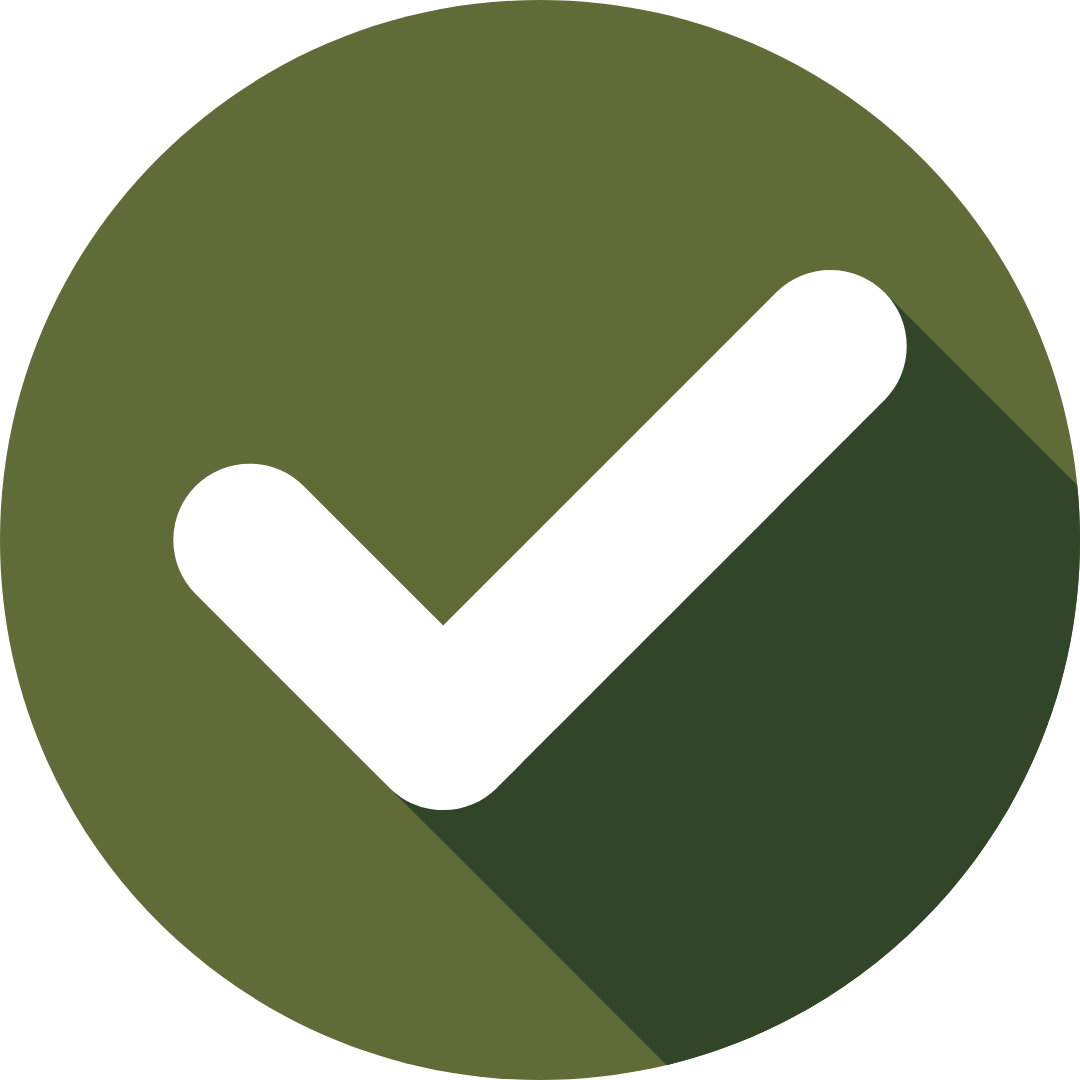
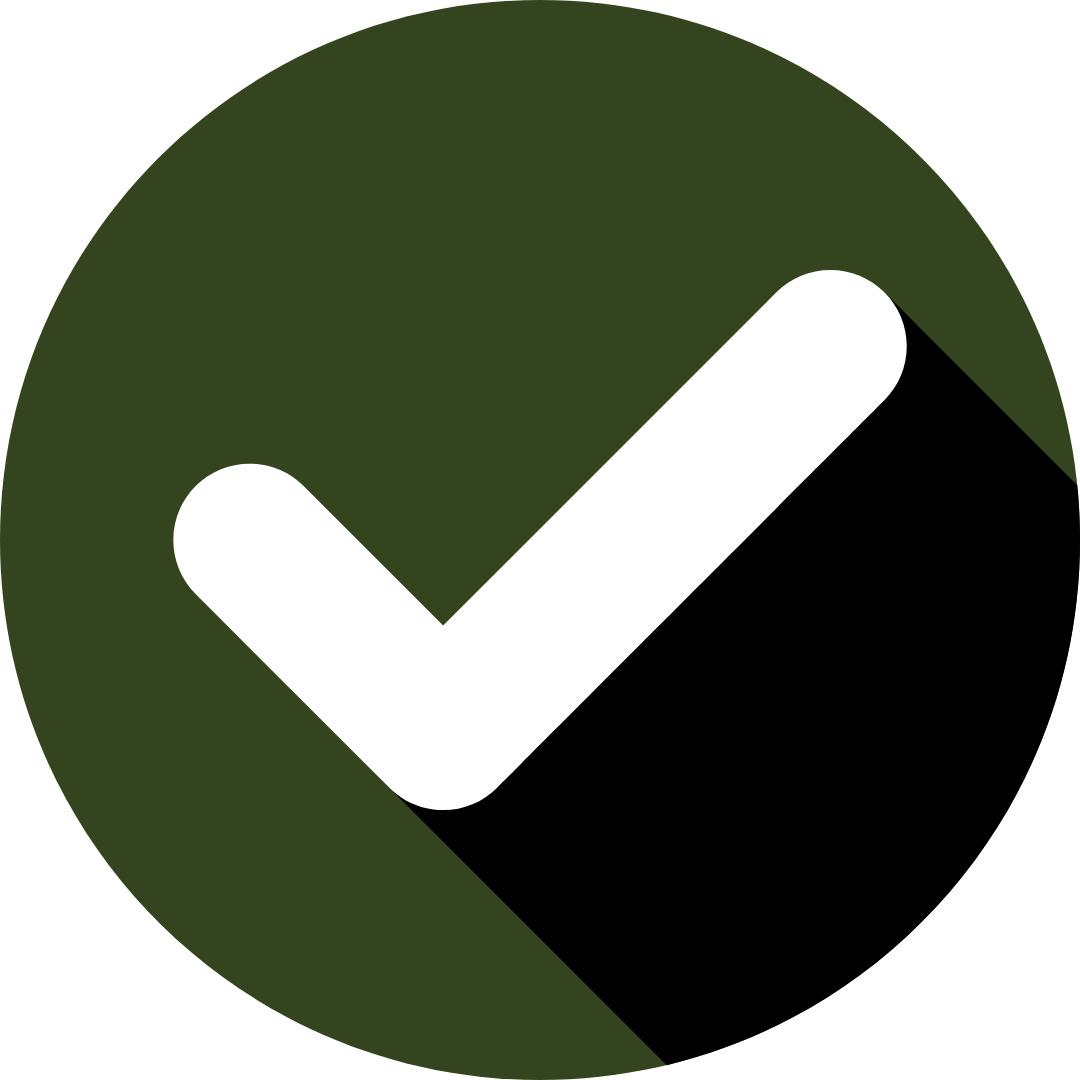
changed the image for taken for a better contrast

diff --git a/src/pages/ProfilePage/ProfilePage.js b/src/pages/ProfilePage/ProfilePage.js
@@ -38,7 +38,7 @@ export default function ProfilePage() {
             alt="otter profile pic"
             className="profile__picture"
           />
-          <h1 className="profile__title">hello Anelya</h1>
+          <h1 className="profile__title">hello Otter</h1>
         </div>
         <div className="profile__list">
           <h2 className="profile__heading">Your managed profiles:</h2>
